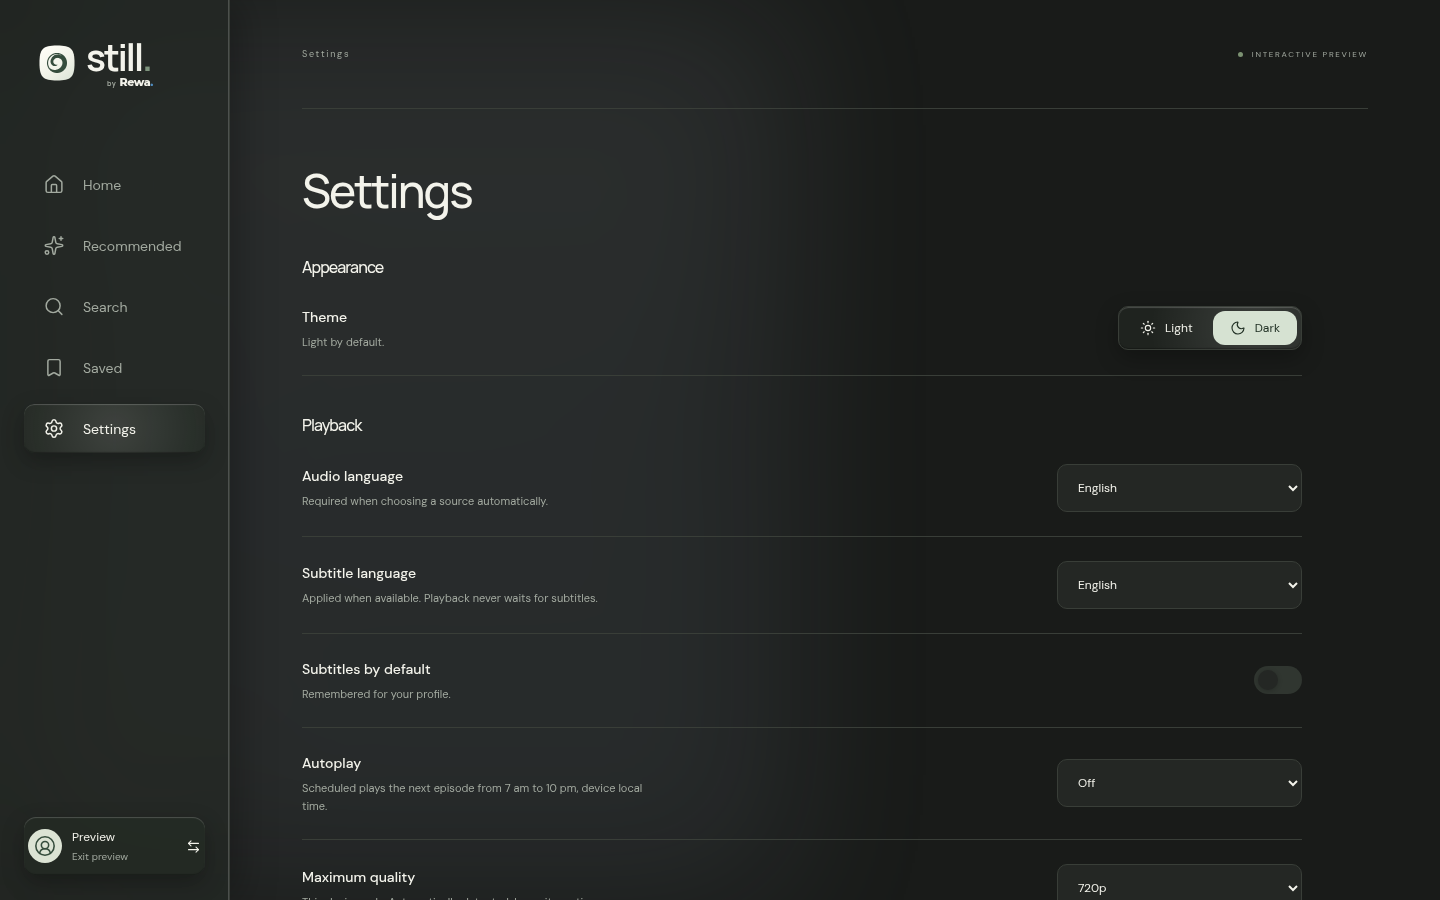
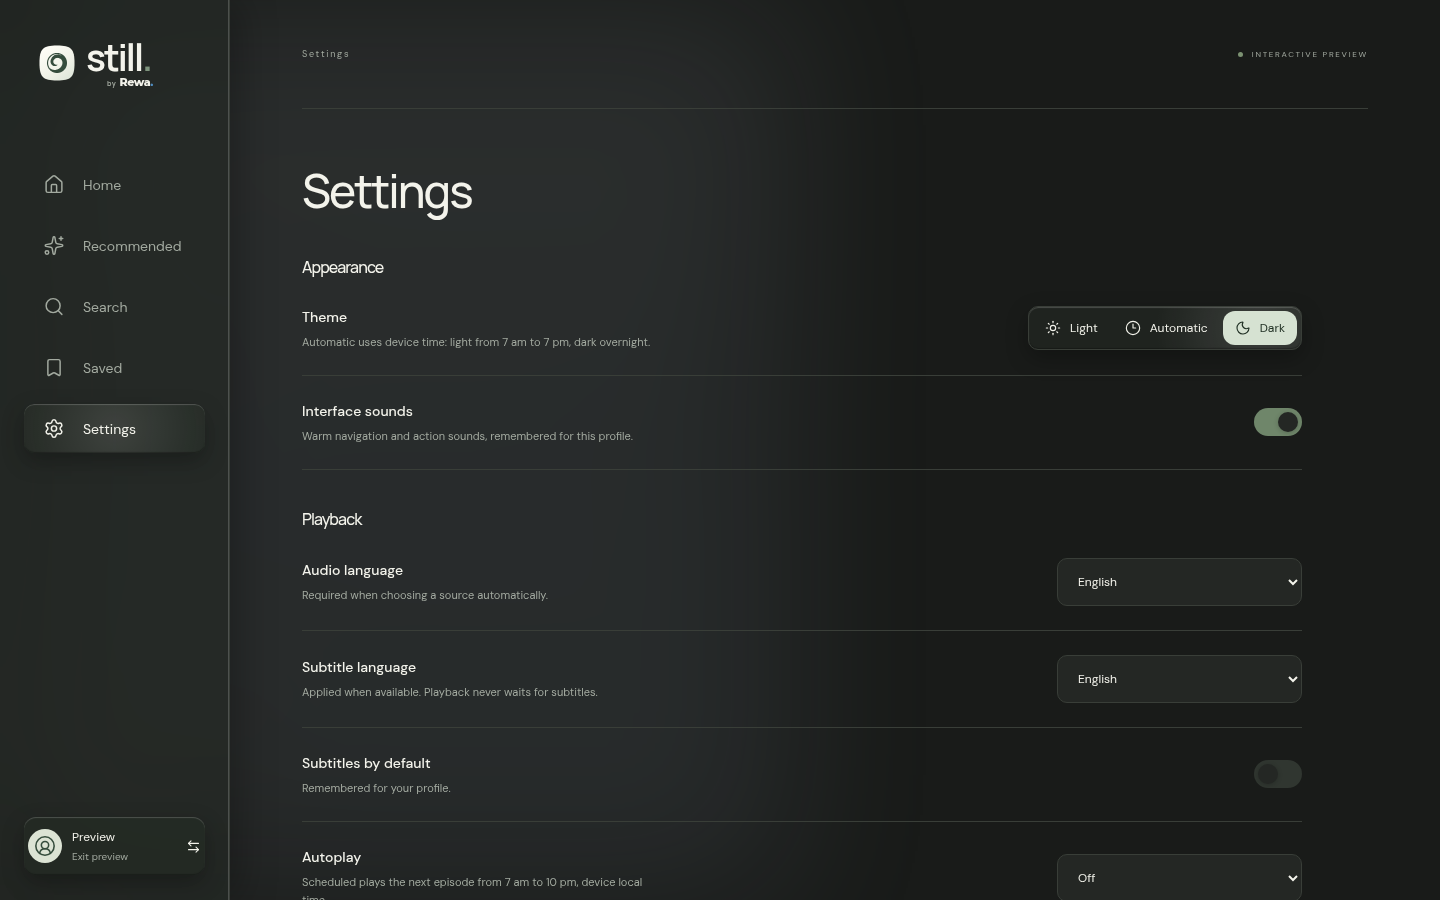
feat(settings): add profile sounds and automatic themes

diff --git a/src/main.tsx b/src/main.tsx
@@ -23,11 +23,13 @@ import {
   recordProgress,
   releasedEpisodes,
   sourceInfo,
+  themeAtTime,
 } from "../shared/domain.mjs";
 import { readLocal, useProfileStore } from "./store";
 import { Player } from "./Player";
 import { LoadScreen } from "./LoadScreen";
 import { Icon, Avatar, avatarOptions, type IconName } from "./Icon";
+import { playInterfaceSound } from "./sounds";
 import "./style.css";
 const demoMeta: Meta = {
   id: "still-demo",
@@ -237,8 +239,24 @@ function App() {
     return () => window.removeEventListener("pointermove", highlight);
   }, []);
   useEffect(() => {
-    document.documentElement.dataset.theme = data.settings.theme;
+    const apply = () => {
+      document.documentElement.dataset.theme = themeAtTime(data.settings.theme);
+    };
+    apply();
+    const timer = window.setInterval(apply, 60_000);
+    return () => window.clearInterval(timer);
   }, [data.settings.theme]);
+  useEffect(() => {
+    if (!data.settings.interfaceSounds) return;
+    const activate = (event: MouseEvent) => {
+      const control = (event.target as Element)?.closest(
+        "button,a[href],input[type=checkbox]",
+      );
+      if (control && !control.closest(".player")) playInterfaceSound("activate");
+    };
+    document.addEventListener("click", activate);
+    return () => document.removeEventListener("click", activate);
+  }, [data.settings.interfaceSounds]);
   useEffect(() => {
     const expired = () => {
       setSession(null);
@@ -339,6 +357,7 @@ function App() {
         !form
       ) {
         e.preventDefault();
+        if (data.settings.interfaceSounds) playInterfaceSound("back");
         if (resolving) cancelLoad();
         else if (play) setPlay(null);
         else if (sources) {
@@ -406,15 +425,27 @@ function App() {
         })
         .filter((x) => x.along > 5)
         .sort((a, b) => a.along + a.cross * 3 - (b.along + b.cross * 3));
-      candidates[0]?.item.focus();
-      candidates[0]?.item.scrollIntoView({
+      const target = candidates[0]?.item;
+      target?.focus();
+      target?.scrollIntoView({
         block: "nearest",
         inline: "nearest",
       });
+      if (target && !target.closest(".player") && data.settings.interfaceSounds) {
+        playInterfaceSound("move");
+      }
     };
     window.addEventListener("keydown", remote);
     return () => window.removeEventListener("keydown", remote);
-  }, [page, detail, dialog, play, sources, resolving]);
+  }, [
+    page,
+    detail,
+    dialog,
+    play,
+    sources,
+    resolving,
+    data.settings.interfaceSounds,
+  ]);
   useEffect(() => {
     if (!error) return;
     const timer = setTimeout(() => setError(""), 9000);
@@ -1708,19 +1739,44 @@ function Settings(p: any) {
       </div>
       <section>
         <h2>Appearance</h2>
-        <Setting label="Theme" text="Light by default.">
+        <Setting
+          label="Theme"
+          text="Automatic uses device time: light from 7 am to 7 pm, dark overnight."
+        >
           <div className="segmented">
-            {["light", "dark"].map((t) => (
+            {[
+              ["light", "Light", "sun"],
+              ["scheduled", "Automatic", "clock"],
+              ["dark", "Dark", "moon"],
+            ].map(([value, label, icon]) => (
               <button
-                key={t}
-                aria-pressed={data.settings.theme === t}
-                onClick={() => set("theme", t)}
+                key={value}
+                aria-pressed={data.settings.theme === value}
+                onClick={() => set("theme", value)}
               >
-                <Icon name={t === "light" ? "sun" : "moon"} size={16} />
-                {t === "light" ? "Light" : "Dark"}
+                <Icon name={icon as IconName} size={16} />
+                {label}
               </button>
             ))}
           </div>
+        </Setting>
+        <Setting
+          label="Interface sounds"
+          text="Warm navigation and action sounds, remembered for this profile."
+        >
+          <button
+            className="toggle"
+            role="switch"
+            aria-label="Interface sounds"
+            aria-checked={data.settings.interfaceSounds}
+            onClick={() => {
+              const enabled = !data.settings.interfaceSounds;
+              set("interfaceSounds", enabled);
+              if (enabled) playInterfaceSound("activate");
+            }}
+          >
+            <span />
+          </button>
         </Setting>
       </section>
       <section>

diff --git a/src/sounds.ts b/src/sounds.ts
@@ -1,0 +1,50 @@
+type Sound = "move" | "activate" | "back";
+
+let context: AudioContext | undefined;
+
+function thock(kind: Sound) {
+  const Audio = window.AudioContext || (window as any).webkitAudioContext;
+  if (!Audio) return;
+  context ||= new Audio();
+  const ctx = context;
+  const [start, end, duration, level] =
+    kind === "move"
+      ? [180, 105, 0.045, 0.018]
+      : kind === "back"
+        ? [105, 48, 0.07, 0.028]
+        : [135, 58, 0.085, 0.04];
+  const now = ctx.currentTime;
+  const body = ctx.createOscillator();
+  const bodyGain = ctx.createGain();
+  body.type = "triangle";
+  body.frequency.setValueAtTime(start, now);
+  body.frequency.exponentialRampToValueAtTime(end, now + duration);
+  bodyGain.gain.setValueAtTime(level, now);
+  bodyGain.gain.exponentialRampToValueAtTime(0.0001, now + duration);
+  body.connect(bodyGain).connect(ctx.destination);
+  body.start(now);
+  body.stop(now + duration);
+
+  const frames = Math.ceil(ctx.sampleRate * 0.012);
+  const buffer = ctx.createBuffer(1, frames, ctx.sampleRate);
+  const noise = buffer.getChannelData(0);
+  for (let i = 0; i < frames; i++)
+    noise[i] = (Math.random() * 2 - 1) * (1 - i / frames);
+  const attack = ctx.createBufferSource();
+  const filter = ctx.createBiquadFilter();
+  const attackGain = ctx.createGain();
+  attack.buffer = buffer;
+  filter.type = "lowpass";
+  filter.frequency.value = kind === "move" ? 900 : 650;
+  attackGain.gain.value = kind === "move" ? 0.006 : 0.01;
+  attack.connect(filter).connect(attackGain).connect(ctx.destination);
+  attack.start(now);
+}
+
+export function playInterfaceSound(kind: Sound) {
+  const Audio = window.AudioContext || (window as any).webkitAudioContext;
+  if (!Audio) return;
+  context ||= new Audio();
+  if (context.state === "suspended") void context.resume().then(() => thock(kind));
+  else thock(kind);
+}

diff --git a/e2e/app.spec.ts b/e2e/app.spec.ts
@@ -65,6 +65,10 @@ test("preview navigates, saves titles, changes preferences and themes", async ({
   await capture(page, "artifacts/saved-light.png");
   await page.getByRole("button", { name: "Settings", exact: true }).click();
   await capture(page, "artifacts/settings-light.png");
+  const sounds = page.getByRole("switch", { name: "Interface sounds" });
+  await expect(sounds).toHaveAttribute("aria-checked", "false");
+  await sounds.click();
+  await expect(sounds).toHaveAttribute("aria-checked", "true");
   const toggle = page.getByRole("switch", { name: "Subtitles by default" });
   const knob = toggle.locator("span");
   const wasChecked = (await toggle.getAttribute("aria-checked")) === "true";
@@ -76,6 +80,18 @@ test("preview navigates, saves titles, changes preferences and themes", async ({
   expect(right!.x > left!.x).toBe(!wasChecked);
   expect(right!.x + right!.width).toBeLessThanOrEqual(
     (await toggle.boundingBox())!.x + (await toggle.boundingBox())!.width,
+  );
+  await page.getByRole("button", { name: "Automatic", exact: true }).click();
+  await expect(
+    page.getByRole("button", { name: "Automatic", exact: true }),
+  ).toHaveAttribute("aria-pressed", "true");
+  const expectedTheme = await page.evaluate(() => {
+    const hour = new Date().getHours();
+    return hour >= 7 && hour < 19 ? "light" : "dark";
+  });
+  await expect(page.locator("html")).toHaveAttribute(
+    "data-theme",
+    expectedTheme,
   );
   await page.getByRole("button", { name: "Dark", exact: true }).click();
   await expect(page.locator("html")).toHaveAttribute("data-theme", "dark");

diff --git a/src/Icon.tsx b/src/Icon.tsx
@@ -7,6 +7,7 @@ import {
   Captions,
   Check,
   ChevronRight,
+  Clock3,
   Cat,
   CircleUserRound,
   createLucideIcon,
@@ -125,6 +126,7 @@ const icons = {
   captions: Captions,
   check: Check,
   chevron: ChevronRight,
+  clock: Clock3,
   profile: CircleUserRound,
   brand: Eclipse,
   more: Ellipsis,

diff --git a/src/types.ts b/src/types.ts
@@ -54,6 +54,7 @@ export type ProfileState = {
   feedback: Record<string, { meta: Meta; value: string; updatedAt: number }>;
   settings: {
     theme: string;
+    interfaceSounds: boolean;
     audio: string;
     subtitle: string;
     subtitles: boolean;

diff --git a/src/style.css b/src/style.css
@@ -832,9 +832,10 @@ main {
   gap: 3px;
 }
 .segmented button {
+  flex: 1;
   border: 0;
   background: transparent;
-  padding: 9px 17px;
+  padding: 9px 12px;
   font-size: 12px;
 }
 .segmented button[aria-pressed="true"] {
